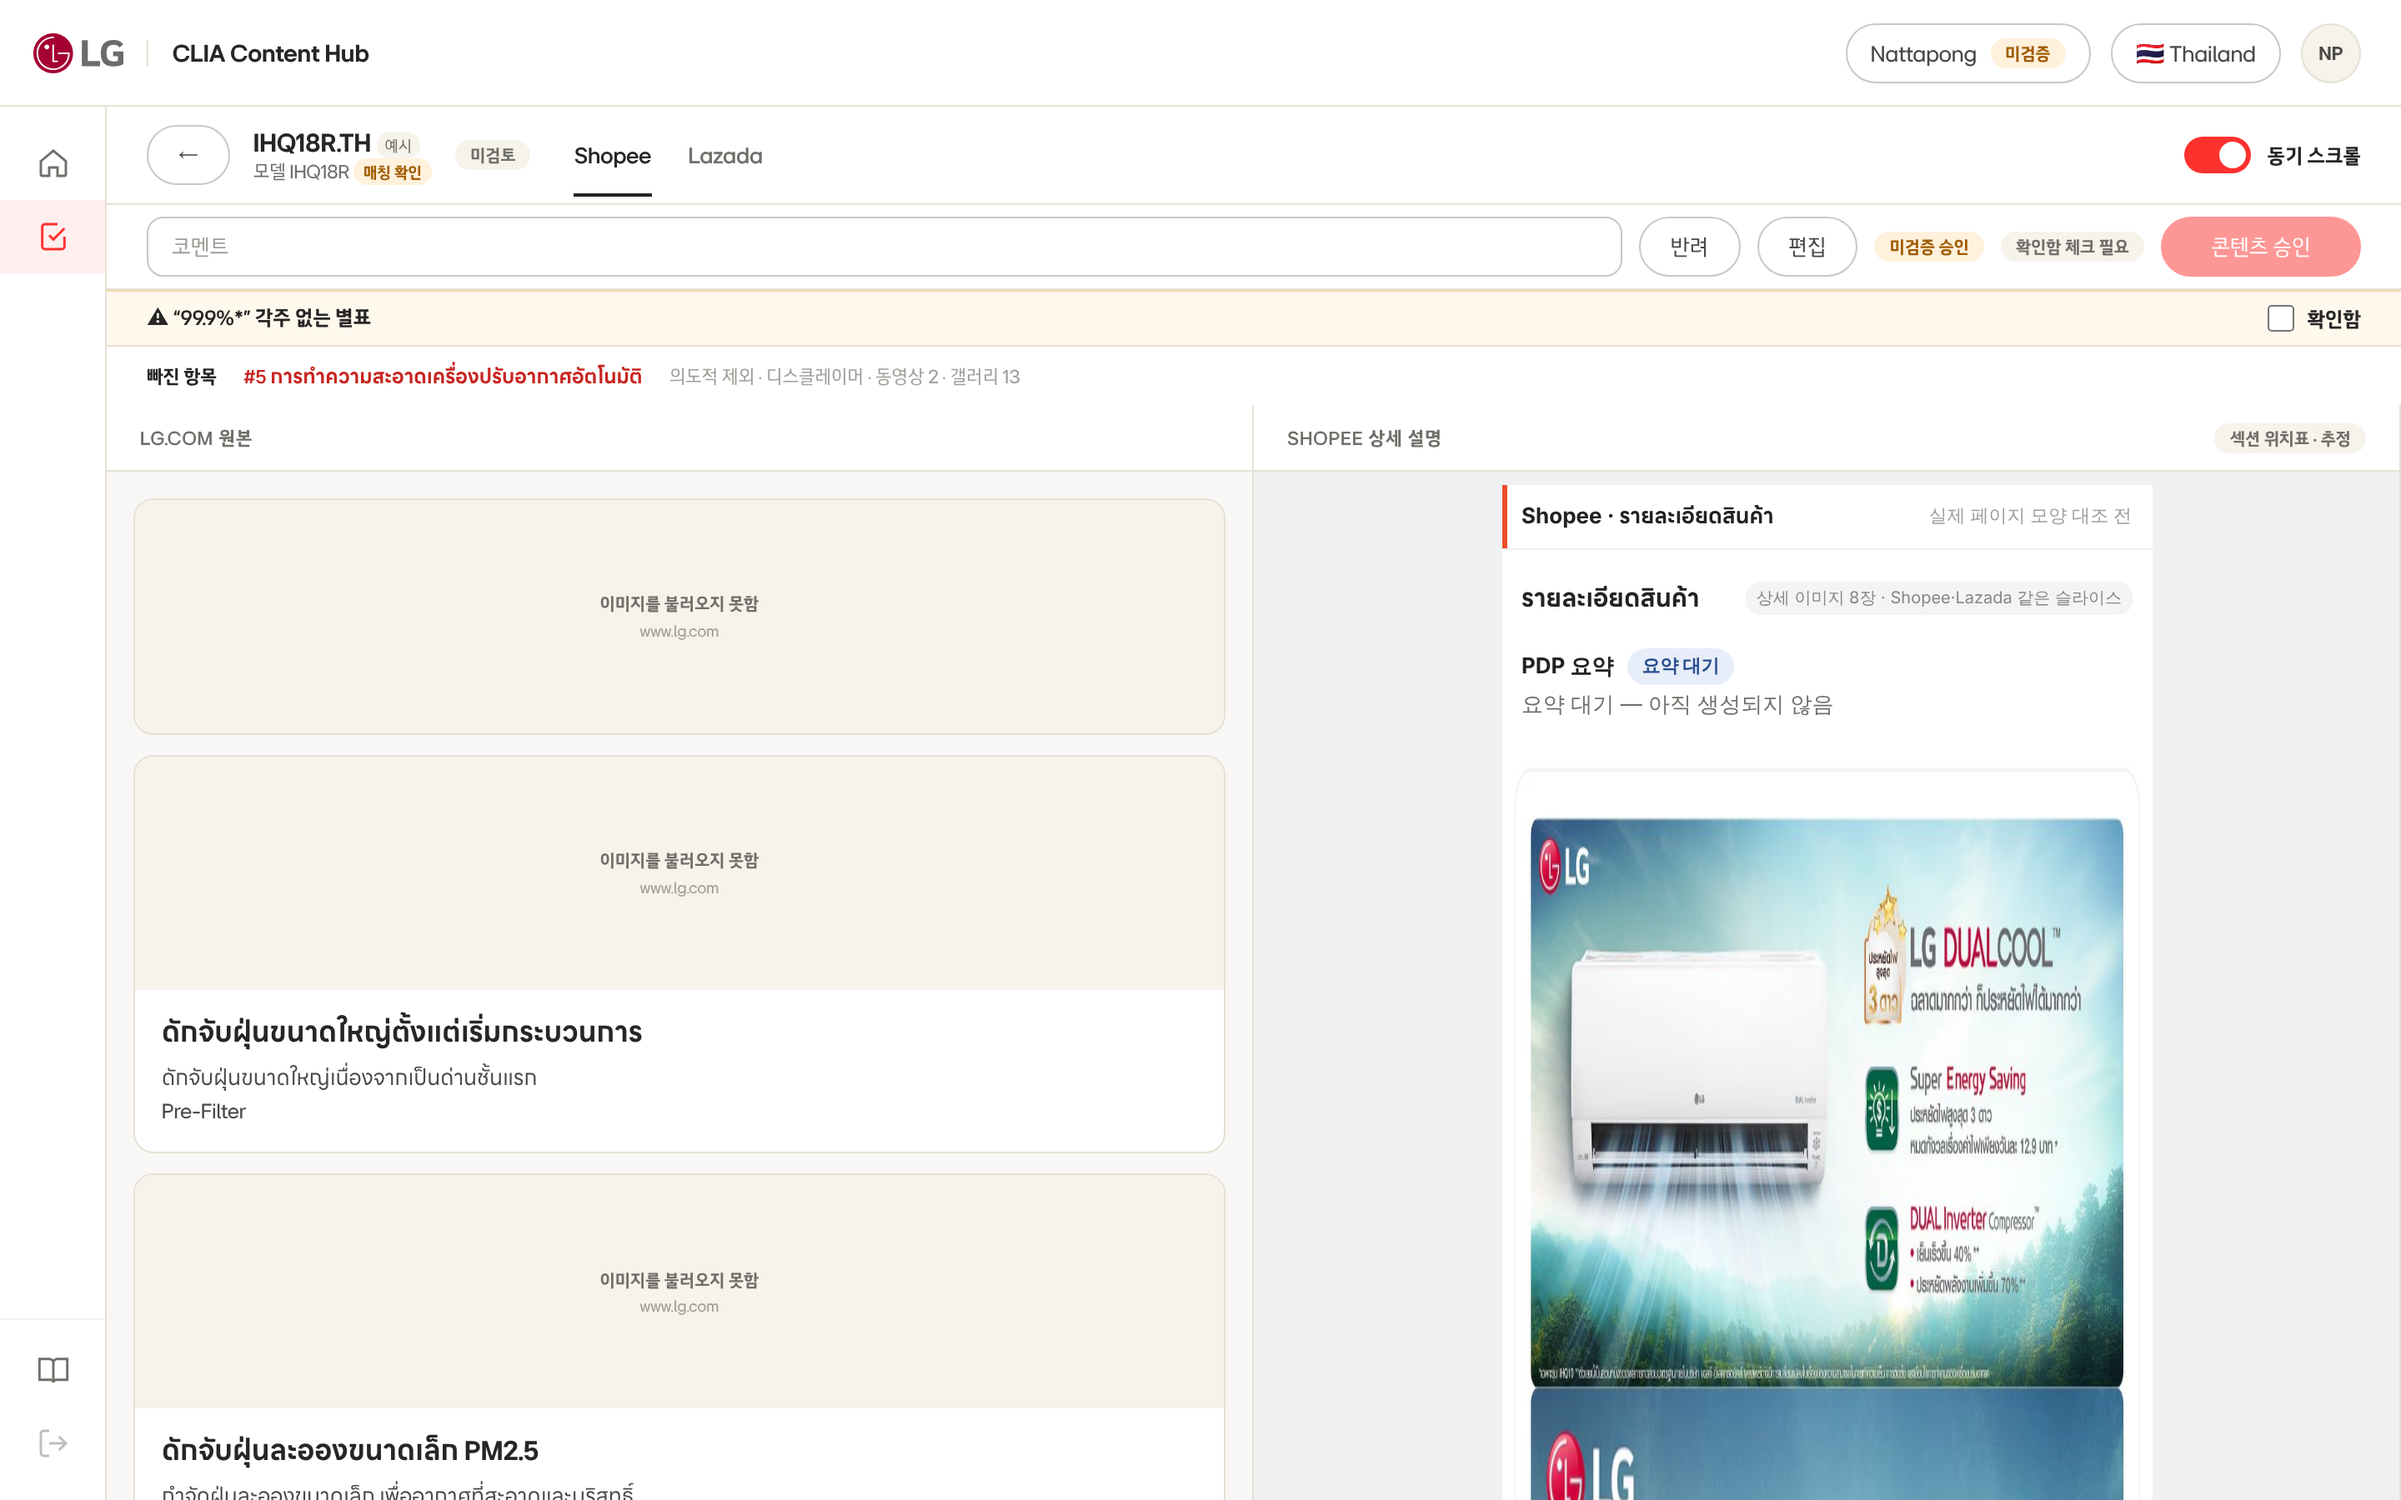
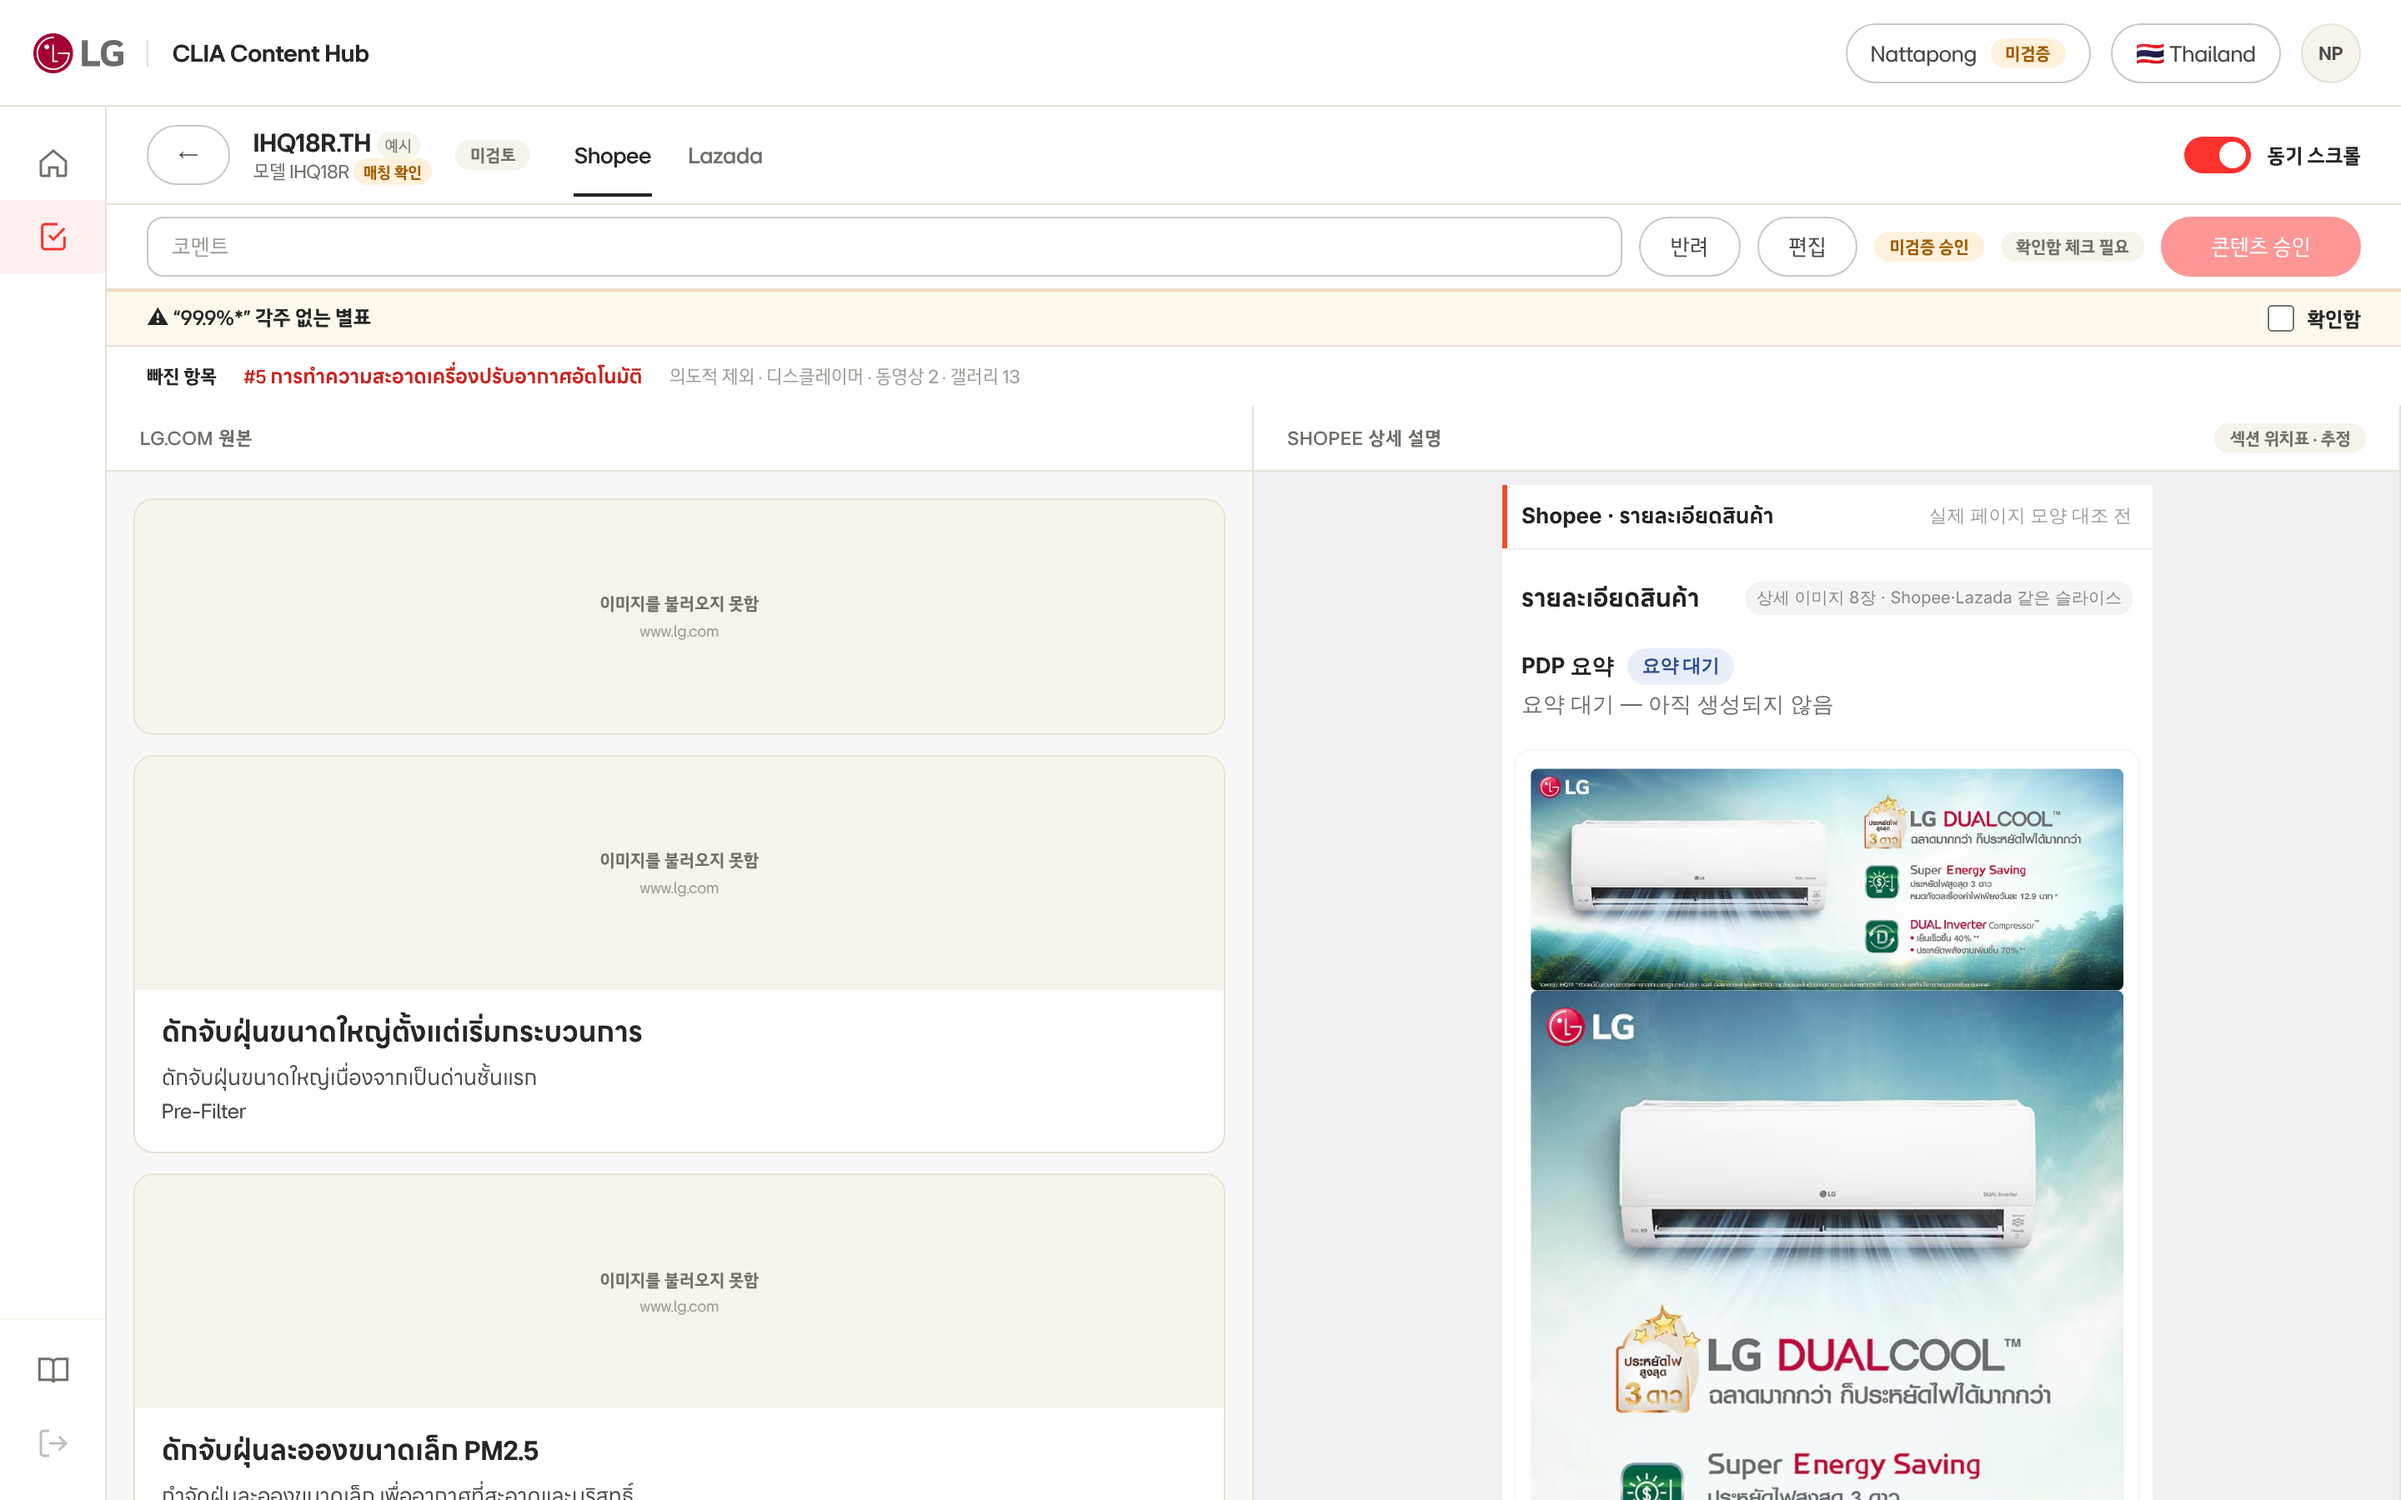
docs: 목업 v8·v9 상세 슬라이스 세로 늘어남 수정, 이미지 비율 자동 검사
- .slices img 에 height:auto (height 속성 때문에 260장 중 150장이 세로로 늘어나 있었음)
- v9 목록 썸네일을 잘라내지 않고 전체 표시
- 캡처 스크립트에 화면 비율 vs 원본 비율 검사 추가 (수정 후 0장)

Claude-Session: https://claude.ai/code/session_01Qc8KZ9fFX6kBVHrq9Tv6ME

Changed region(s): [[0.625, 0.4978, 0.9062, 1.0]]

diff --git a/docs/clia-pdp-review/mockups/v8/capture_v8.js b/docs/clia-pdp-review/mockups/v8/capture_v8.js
@@ -59,6 +59,25 @@ const out = path.resolve(process.argv[3] || '.');
   await page.evaluate(() => { const o = document.getElementById('pO'), k = o.querySelector('.os[data-k="6"]'); o.scrollTop = k.offsetTop - 20; o.dispatchEvent(new Event('scroll')); });
   await page.waitForTimeout(600); await shot('compare-v8-sync.png');
 
+  const ratio = await page.evaluate(async () => {
+    const bad = [], seen = new Set();
+    for (const i of DATA.keys()) {
+      for (const ch of ['shopee', 'lazada']) {
+        openCmp(i); setCh(ch);
+        const imgs = [...document.querySelectorAll('#pO img, #pR img, #grid img')];
+        await Promise.all(imgs.map(im => im.complete ? 0 : new Promise(r => { im.onload = im.onerror = r; })));
+        for (const im of document.querySelectorAll('#pO img, #pR img')) {
+          if (!im.naturalWidth || seen.has(im.src + ch)) continue; seen.add(im.src + ch);
+          const r = im.getBoundingClientRect(); if (!r.width) continue;
+          const d = Math.abs(r.height / r.width - im.naturalHeight / im.naturalWidth) / (im.naturalHeight / im.naturalWidth);
+          if (d > 0.01) bad.push(`${DATA[i].model} ${ch} ${im.src.split('/').slice(-2).join('/')} 화면 ${Math.round(r.width)}x${Math.round(r.height)} 원본 ${im.naturalWidth}x${im.naturalHeight}`);
+        }
+      }
+    }
+    go('list');
+    return { checked: seen.size, bad };
+  });
+  console.log('image ratio check: checked', ratio.checked, 'distorted', ratio.bad.length); ratio.bad.slice(0, 20).forEach(b => console.log('   ', b));
   const summary = await page.evaluate(() => DATA.map(p => ({ m: p.model, st: p.st, block: p.block, gshort: p.gshort, grisk: p.grisk, g: p.gallery.length, live: p.gal.live, slices: p.slices.length })));
   console.log(JSON.stringify(summary));
   console.log('failed requests:', failed.length); failed.slice(0, 20).forEach(u => console.log('  ', u));

diff --git a/docs/clia-pdp-review/mockups/v9/capture_v9.js b/docs/clia-pdp-review/mockups/v9/capture_v9.js
@@ -39,6 +39,25 @@ const out = path.resolve(process.argv[3] || '.');
   await open('OLED83G4PSA', 'shopee'); await shot('compare-v9-no-blocks.png');
   await open('MS2032GAS', 'shopee');
   await page.evaluate(() => lbOpen(1)); await settle(); await shot('compare-v9-zoom.png');
+  const ratio = await page.evaluate(async () => {
+    const bad = [], seen = new Set();
+    for (const i of DATA.keys()) {
+      for (const ch of ['shopee', 'lazada']) {
+        openCmp(i); setCh(ch);
+        const imgs = [...document.querySelectorAll('#pO img, #pR img, #grid img')];
+        await Promise.all(imgs.map(im => im.complete ? 0 : new Promise(r => { im.onload = im.onerror = r; })));
+        for (const im of document.querySelectorAll('#pO img, #pR img')) {
+          if (!im.naturalWidth || seen.has(im.src + ch)) continue; seen.add(im.src + ch);
+          const r = im.getBoundingClientRect(); if (!r.width) continue;
+          const d = Math.abs(r.height / r.width - im.naturalHeight / im.naturalWidth) / (im.naturalHeight / im.naturalWidth);
+          if (d > 0.01) bad.push(`${DATA[i].model} ${ch} ${im.src.split('/').slice(-2).join('/')} 화면 ${Math.round(r.width)}x${Math.round(r.height)} 원본 ${im.naturalWidth}x${im.naturalHeight}`);
+        }
+      }
+    }
+    go('list');
+    return { checked: seen.size, bad };
+  });
+  console.log('image ratio check: checked', ratio.checked, 'distorted', ratio.bad.length); ratio.bad.slice(0, 20).forEach(b => console.log('   ', b));
   const summary = await page.evaluate(() => DATA.map(p => ({ m: p.model, st: p.st, block: p.block, slices: p.slices.length })));
   console.log(JSON.stringify(summary));
   console.log('failed requests:', failed.length); failed.slice(0, 20).forEach(u => console.log('  ', u));

diff --git a/docs/clia-pdp-review/mockups/v9/mockup-v9.html b/docs/clia-pdp-review/mockups/v9/mockup-v9.html
@@ -635,7 +635,7 @@ body.clia-hub { overflow: hidden; }
 
 
 /* ── v9: 상세(PDP)만 ── */
-.card img.pdp-thumb{object-fit:cover;object-position:top;background:#fff;border:1px solid var(--clia-gray-200)}
+.card img.pdp-thumb{object-fit:contain;object-position:center;background:#fff;border:1px solid var(--clia-gray-200)}
 .card .empty-gallery{height:150px;border-radius:10px;background:var(--clia-gray-100);color:var(--clia-gray-500)}
 .phone.pdp-only{background:#fff}
 .pdp-head{display:flex;align-items:center;justify-content:space-between;gap:8px;padding:10px 12px;font-size:13px;font-weight:700;color:#222;border-bottom:1px solid #eee}
@@ -646,6 +646,7 @@ body.clia-hub { overflow: hidden; }
 .imgfail small{font-weight:400;font-size:10px;color:var(--clia-gray-400)}
 .card .imgfail{height:150px;border-radius:10px}.os .imgfail{height:140px}
 .os .nomatch{display:block;padding:8px 16px;font-size:11px;color:var(--clia-gray-400);background:var(--clia-gray-50);border-bottom:1px dashed var(--clia-gray-200)}
+.slices img{height:auto}/* width·height 속성은 자리만 잡고 비율은 이미지 그대로 */
 .v8note{position:fixed;left:80px;bottom:12px;z-index:50;max-width:560px;background:#1F1E1C;color:#fff;border-radius:12px;padding:10px 36px 10px 14px;font-size:12px;line-height:1.5;box-shadow:0 6px 24px rgba(0,0,0,.25)}
 .v8note b{color:#FFD86B}.v8note button{position:absolute;top:6px;right:8px;background:none;border:0;color:#fff;font-size:14px;cursor:pointer}
 </style></head>

diff --git a/docs/clia-pdp-review/mockups/v8/mockup-v8.html b/docs/clia-pdp-review/mockups/v8/mockup-v8.html
@@ -647,6 +647,7 @@ body.clia-hub { overflow: hidden; }
 .market-gallery .empty-gallery small{font-weight:500;font-size:12px;color:#9B3B37}
 .imgfail{display:flex;flex-direction:column;align-items:center;justify-content:center;gap:2px;width:100%;min-height:72px;background:var(--clia-gray-100);color:var(--clia-gray-500);font-size:11px;font-weight:600;text-align:center;line-height:1.3}.imgfail small{font-weight:400;font-size:10px;color:var(--clia-gray-400)}.card .imgfail{height:150px;border-radius:10px}.os .imgfail{height:140px}.market-gallery .imgfail{position:absolute;inset:0;height:auto}.thumb .imgfail{min-height:0;height:100%;font-size:0}.thumb .imgfail small{display:none}.thumb .imgfail::after{content:'✕';font-size:12px}
 .os .nomatch{display:block;padding:8px 16px;font-size:11px;color:var(--clia-gray-400);background:var(--clia-gray-50);border-bottom:1px dashed var(--clia-gray-200)}
+.slices img{height:auto}/* width·height 속성은 자리만 잡고 비율은 이미지 그대로 */
 .v8note{position:fixed;left:80px;bottom:12px;z-index:50;max-width:560px;background:#1F1E1C;color:#fff;border-radius:12px;padding:10px 36px 10px 14px;font-size:12px;line-height:1.5;box-shadow:0 6px 24px rgba(0,0,0,.25)}
 .v8note b{color:#FFD86B}.v8note button{position:absolute;top:6px;right:8px;background:none;border:0;color:#fff;font-size:14px;cursor:pointer}
 </style></head>

diff --git a/docs/clia-pdp-review/mockups/v9/build_v9.py b/docs/clia-pdp-review/mockups/v9/build_v9.py
@@ -89,7 +89,7 @@ def main():
 
     css = """
 /* ── v9: 상세(PDP)만 ── */
-.card img.pdp-thumb{object-fit:cover;object-position:top;background:#fff;border:1px solid var(--clia-gray-200)}
+.card img.pdp-thumb{object-fit:contain;object-position:center;background:#fff;border:1px solid var(--clia-gray-200)}
 .card .empty-gallery{height:150px;border-radius:10px;background:var(--clia-gray-100);color:var(--clia-gray-500)}
 .phone.pdp-only{background:#fff}
 .pdp-head{display:flex;align-items:center;justify-content:space-between;gap:8px;padding:10px 12px;font-size:13px;font-weight:700;color:#222;border-bottom:1px solid #eee}
@@ -100,6 +100,7 @@ def main():
 .imgfail small{font-weight:400;font-size:10px;color:var(--clia-gray-400)}
 .card .imgfail{height:150px;border-radius:10px}.os .imgfail{height:140px}
 .os .nomatch{display:block;padding:8px 16px;font-size:11px;color:var(--clia-gray-400);background:var(--clia-gray-50);border-bottom:1px dashed var(--clia-gray-200)}
+.slices img{height:auto}/* width·height 속성은 자리만 잡고 비율은 이미지 그대로 */
 .v8note{position:fixed;left:80px;bottom:12px;z-index:50;max-width:560px;background:#1F1E1C;color:#fff;border-radius:12px;padding:10px 36px 10px 14px;font-size:12px;line-height:1.5;box-shadow:0 6px 24px rgba(0,0,0,.25)}
 .v8note b{color:#FFD86B}.v8note button{position:absolute;top:6px;right:8px;background:none;border:0;color:#fff;font-size:14px;cursor:pointer}
 """

diff --git a/docs/clia-pdp-review/mockups/v8/build_v8.py b/docs/clia-pdp-review/mockups/v8/build_v8.py
@@ -199,6 +199,7 @@ def main():
 .market-gallery .empty-gallery small{font-weight:500;font-size:12px;color:#9B3B37}
 .imgfail{display:flex;flex-direction:column;align-items:center;justify-content:center;gap:2px;width:100%;min-height:72px;background:var(--clia-gray-100);color:var(--clia-gray-500);font-size:11px;font-weight:600;text-align:center;line-height:1.3}.imgfail small{font-weight:400;font-size:10px;color:var(--clia-gray-400)}.card .imgfail{height:150px;border-radius:10px}.os .imgfail{height:140px}.market-gallery .imgfail{position:absolute;inset:0;height:auto}.thumb .imgfail{min-height:0;height:100%;font-size:0}.thumb .imgfail small{display:none}.thumb .imgfail::after{content:'✕';font-size:12px}
 .os .nomatch{display:block;padding:8px 16px;font-size:11px;color:var(--clia-gray-400);background:var(--clia-gray-50);border-bottom:1px dashed var(--clia-gray-200)}
+.slices img{height:auto}/* width·height 속성은 자리만 잡고 비율은 이미지 그대로 */
 .v8note{position:fixed;left:80px;bottom:12px;z-index:50;max-width:560px;background:#1F1E1C;color:#fff;border-radius:12px;padding:10px 36px 10px 14px;font-size:12px;line-height:1.5;box-shadow:0 6px 24px rgba(0,0,0,.25)}
 .v8note b{color:#FFD86B}.v8note button{position:absolute;top:6px;right:8px;background:none;border:0;color:#fff;font-size:14px;cursor:pointer}
 """

diff --git a/docs/clia-pdp-review/mockups/v9/README.md b/docs/clia-pdp-review/mockups/v9/README.md
@@ -19,6 +19,22 @@
 
 그대로인 것: 왼쪽 lg.com 원본(운영 저장본 섹션 + v8 매칭), 섹션 단위 동기 스크롤(위치표 「추정」, 위치표 없는 3개 제품은 꺼짐), 1000px 확대 보기, 요약 2단계 승인, 별표 경고·매칭 확인·SKU 예시, ZIP/엑셀 승인 n/전체, 법인 th/sg 전환. v7의 지어낸 「AS10GDBY0 승인 불가」는 계속 빠져 있습니다.
 
+## 이미지 비율 버그 수정 (v8·v9 공통)
+
+- **v8과 v9 첫 업로드에 있던 버그:** 상세 슬라이스에 자리 잡기용 `height` 속성을 넣었는데 CSS에 `height:auto`가 없었습니다. 그래서 슬라이스가 폭은 줄고 높이는 원본 그대로여서 **세로로 늘어나** 보였습니다. 예를 들어 1000×1721 슬라이스가 390×1721로 그려졌습니다.
+- `.slices img{height:auto}`로 고쳤습니다. 목록 썸네일도 잘라내지 않고(`object-fit:contain`) 전체가 보이게 바꿨습니다.
+- 캡처 스크립트가 모든 제품·채널을 열어서, 화면에 그려진 가로세로 비율과 원본 이미지 비율이 1% 넘게 다른 이미지를 셉니다.
+  - 고치기 전: 260장 중 150장이 어긋남
+  - 고친 뒤: 0장
+  - lg.com 이미지는 이 환경에서 열리지 않아 검사하지 못했습니다(미확인). 왼쪽 원본 이미지는 `width:100%; height:auto`라 비율이 바뀌지 않는 구조입니다.
+
+## 아직 안 된 것 (사용자 요구, 2026-11-24)
+
+- **LG.com은 LG.com 페이지 그대로:** 지금 왼쪽은 운영 저장본 섹션(이미지 + 텍스트)을 카드로 다시 짠 것이라 lg.com 화면 그대로가 아닙니다.
+  - 운영 서버에 lg.com 전체 화면 캡처 기능이 있습니다(`GET /api/v1/fullshot?url=`로 있는지 확인, `GET /media/fullshot/<key>.jpg`로 읽기, `crawler-py/fullshot.py`, PC 1920px을 폭 960px로 저장). 이것을 쓰면 왼쪽을 lg.com 화면 그대로 보여 줄 수 있습니다.
+  - 이 세션에서는 그 확인 요청이 권한 검사에서 막혀 아직 못 봤습니다. 없는 제품은 `POST /api/v1/fullshot`으로 새로 찍어야 하는데, 운영 서버에서 캡처 작업(Firecrawl 포함)이 돌기 때문에 승인이 필요합니다.
+- **Shopee·Lazada 사이즈 그대로:** 실제 페이지(모바일 웹·PC 웹)의 상세 영역 폭을 재야 합니다. 사용자 컴퓨터에서 같이 보기로 했습니다.
+
 ## 파일
 
 | 파일 | 내용 |
